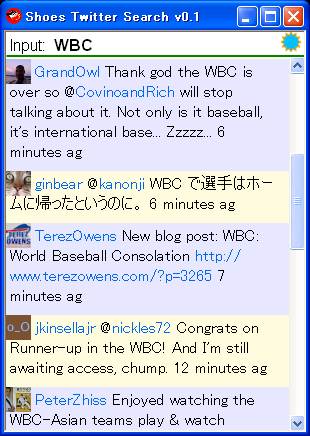
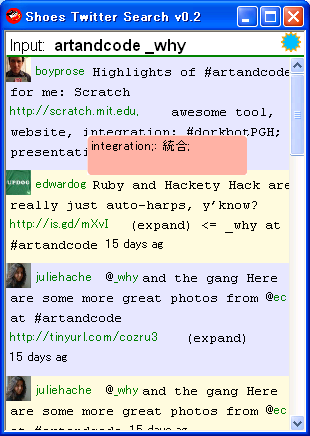
eleased v0.2. Added the google-translate function.

diff --git a/lib/mk_elements.rb b/lib/mk_elements.rb
@@ -1,7 +1,6 @@
 # mk_elements.rb
 
 module TwitterSearch
-
   def mk_text word, x, y
     len = 8 * word.length
     (x = 0; y += 20) if (x + len) > width - 16
@@ -12,13 +11,14 @@ module TwitterSearch
     x += (len + 8)
               
     r.click do
+      result = search(word)
+      h = 8 * result.length / 160 + 1
       b, l, t = self.mouse
-      @msg = flow :left => l, :top => t, :width => 100, :height => 30 do
+      @msg = flow :left => l, :top => t, :width => 160, :height => 20 * h do
         nostroke
-        rect 0, 0, 100, 30, :fill => rgb(255, 99, 71, 0.5), :curve => 5
-        para word, :font => "MS UI Gothic", :size => 10, :weight => 'bold'
+        rect 0, 0, 160, 20 * h, :fill => rgb(255, 99, 71, 0.5), :curve => 5
+        para result, :font => "MS UI Gothic", :size => 10, :weight => 'bold'
       end
-      @msg.style :width => len
     end
     r.leave{@msg.remove if @msg}
     
@@ -49,5 +49,3 @@ module TwitterSearch
     return x, y
   end
 end
-
-

diff --git a/lib/shoes_twitter_search.rb b/lib/shoes_twitter_search.rb
@@ -1,9 +1,10 @@
 # shoes_twitter_search.rb
 require 'twitter_search'
 require 'mk_elements.rb'
+require 'google_translate'
 
 W, H, F = 300, 400, 25
-T = 'Shoes Twitter Search v0.1'
+T = 'Shoes Twitter Search v0.2'
 
 Shoes.app :width => W, :height => H, :title => T do
   extend TwitterSearch
@@ -13,7 +14,7 @@ Shoes.app :width => W, :height => H, :title => T do
   
   flow :height => F do
     para "Input: "
-    @input = para('artandcode', :weight => 'bold')
+    @input = para('Shoes RubyLearning', :weight => 'bold')
     line 0, F, W, F, :stroke => green, :strokewidth => 5
     @star = image :left => W - 25, :top => 0, :width => 20, :height => 20 do
       star 10, 10, 12, 10, 7, :fill => deepskyblue , :stroke => orange

diff --git a/lib/google_translate.rb b/lib/google_translate.rb
@@ -1,0 +1,16 @@
+# google_translate.rb
+module TwitterSearch
+  def search word
+    require 'open-uri'
+
+    path = "http://ajax.googleapis.com/ajax/services/language/" \
+           "translate?v=1.0&langpair=en%7C"
+    q = "&q="
+
+    word = 'unknown' if word.empty?
+    lang = 'ja'
+    result = open(path + lang + q + word).read.split('"')[5]
+    result =  search word[0...-1] if result.empty?
+    return word + ': ' + result
+  end
+end

diff --git a/README.md b/README.md
@@ -18,6 +18,8 @@ You can delete them with `backspace` key and reinput new keywords.
 
 If you click on an upper right deepskyblue star, Shoes Twitter Search searches them immediately. If you do nothing, it'll search every 60 seconds.
 
+If you click on each word, the result of google translation (English to Japanese) will appear on the small popup area.
+
 
 Snapshot
 --------
@@ -26,6 +28,7 @@ Snapshot
 
 Change log
 ----------
+Mar 27th, 2009: Released v0.2. Added the google-translate function. <br>
 Mar 26th, 2009: Rewroted link function from scratch. <br>
 Mar 24th, 2009: Added links to twitters and replaced snapshot pic. <br>
 Mar 20th, 2009: Added a `rescue` condition for avatar downloading and wrote this README. <br>
@@ -36,7 +39,7 @@ To do list
 ----------
 - discover the cause of abort
 - add advanced search conditions
-- translate the word (Mouseover Dictionary) like [this](http://github.com/ashbb/shoes_translator/tree/master)
+- translate the word (Mouseover Dictionary) like [this](http://github.com/ashbb/shoes_translator/tree/master)... done!
 - fetch the next page of the search result
 
 
